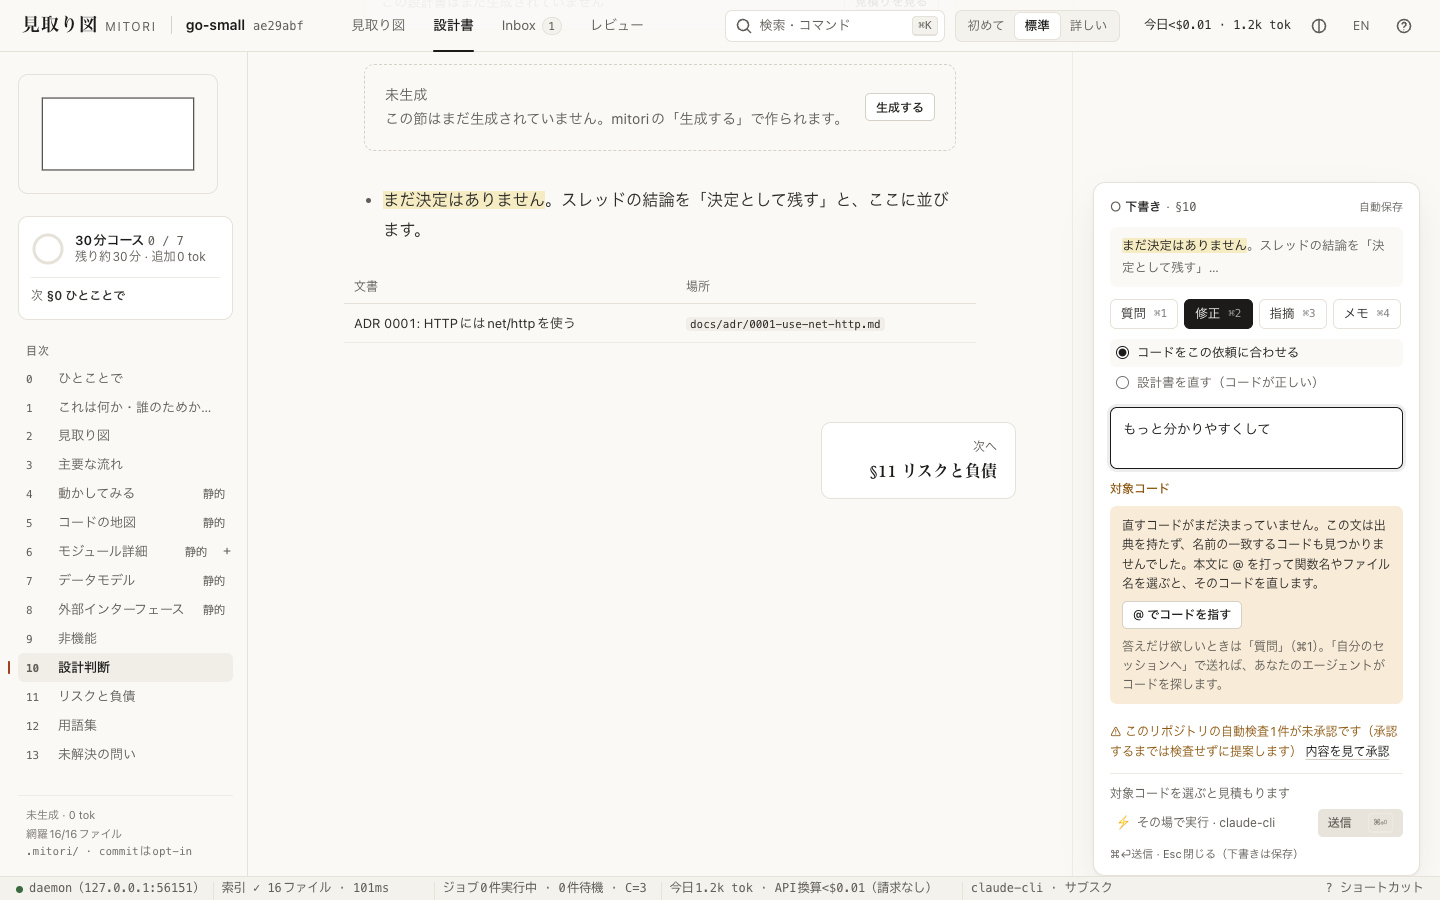
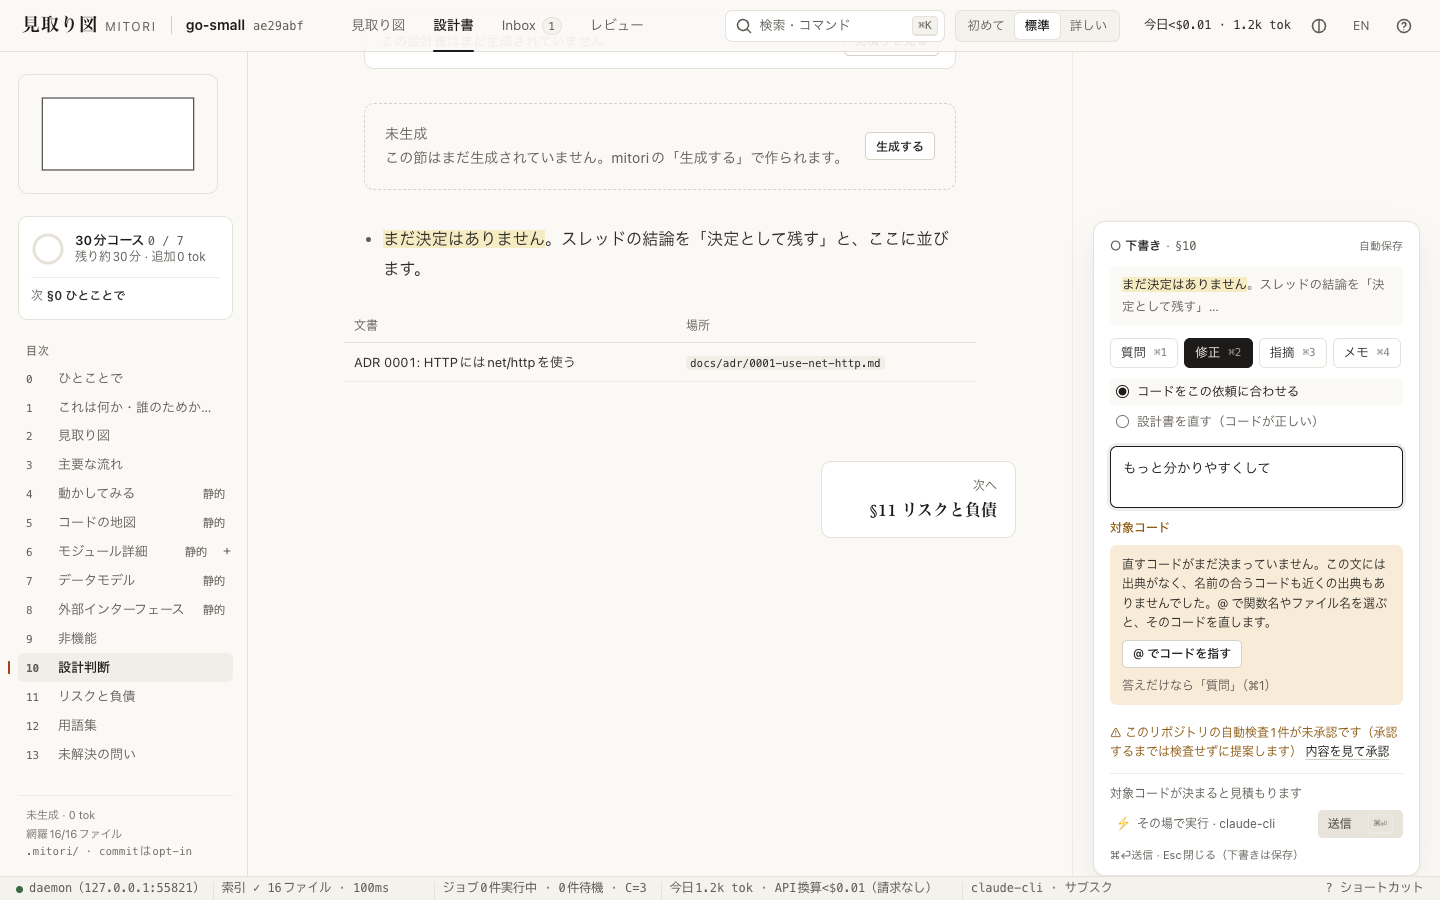
docs(progress): ux verifier pass — findings, crit probe, EN / dark shots, CR #6

diff --git a/test/int/shots/ux-en.ts b/test/int/shots/ux-en.ts
@@ -1,0 +1,104 @@
+/**
+ * UX drive, English chrome (finishing pass, track ux): the Fix-without-@ states of the Composer in the EN UI —
+ * candidates on a facts row, the hint on an uncited sentence, the ⚡-only note on ⤴. Installed Chrome via Playwright,
+ * the in-process daemon, NO engine call (nothing is sent). Exit 77 = no Chrome.
+ *
+ *   scripts/nd bun scripts/gen-assets.ts && scripts/nd bun test/int/shots/ux-en.ts [--out docs/progress/ux] [--scheme dark]
+ */
+import { mkdirSync } from "node:fs";
+import { tmpdir } from "node:os";
+import { join, resolve } from "node:path";
+import { buildFixture } from "@mitori/testkit";
+import { chromium } from "@playwright/test";
+import { FAKE_CLAUDE_CONFIG, fakeClaude } from "../fake-claude.ts";
+import { startInt } from "../harness.ts";
+
+const ROOT = resolve(import.meta.dir, "../../..");
+const argv = process.argv.slice(2);
+const opt = (k: string, d?: string) => (argv.includes(k) ? argv[argv.indexOf(k) + 1] : d);
+const OUT = resolve(ROOT, opt("--out", join(tmpdir(), "mitori-ux-en")) as string);
+mkdirSync(OUT, { recursive: true });
+const scheme = opt("--scheme", "light") === "dark" ? "dark" : "light";
+const sleep = (ms: number) => new Promise((r) => setTimeout(r, ms));
+const check = (ok: unknown, what: string): void => {
+  if (!ok) throw new Error(`check failed: ${what}`);
+};
+
+let browser: Awaited<ReturnType<typeof chromium.launch>>;
+try {
+  browser = await chromium.launch({ channel: "chrome", headless: true });
+} catch (e) {
+  console.error("[ux-en] Google Chrome is not available:", e instanceof Error ? e.message.split("\n")[0] : e);
+  process.exit(77);
+}
+const repo = await buildFixture("go-small");
+const int = await startInt({ spawner: fakeClaude({ dtMs: 1 }), config: FAKE_CLAUDE_CONFIG });
+const { ws } = await int.open(repo.root);
+const nonce = await int.json<{ url: string }>("POST", "/auth/nonce", { to: `/w/${ws}/doc/s4` });
+const ctx = await browser.newContext({ viewport: { width: 1440, height: 900 }, colorScheme: scheme, locale: "en-US" });
+const page = await ctx.newPage();
+const errors: string[] = [];
+page.on("pageerror", (e) => errors.push(e.message));
+page.on("response", (r) => {
+  if (r.status() >= 400) errors.push(`${r.status()} ${r.url()}`);
+});
+const composer = () => page.locator("section.composer").first();
+const suffix = scheme === "dark" ? "-dark" : "";
+let exit = 0;
+try {
+  await page.goto(nonce.url);
+  await page.waitForFunction(() => performance.getEntriesByName("mitori:shell:painted").length > 0);
+  // the EN chrome (the header's language toggle), the doc stays as written
+  if ((await page.locator("button.lang-btn").innerText()).trim() === "EN") await page.locator("button.lang-btn").click();
+  await page.locator(".mb code", { hasText: "TSUNDOKU_API_TOKEN" }).first().waitFor();
+  await sleep(400);
+  await page.locator(".mb code", { hasText: "TSUNDOKU_API_TOKEN" }).first().dblclick();
+  await sleep(250);
+  await page.keyboard.press("f");
+  await composer().getByText("referenced here").first().waitFor({ timeout: 5000 });
+  await sleep(300);
+  await page.screenshot({ path: join(OUT, `ux-en-01-fix-candidates${suffix}.png`) });
+  await page.keyboard.press("Escape");
+  await sleep(300);
+
+  await page.goto(new URL(`/w/${ws}/doc/s10`, page.url()).href);
+  await page.locator(".blk .mb", { hasText: "まだ決定はありません" }).first().waitFor();
+  await sleep(400);
+  await page.evaluate(() => {
+    const root = [...document.querySelectorAll(".reader-root .blk .mb")].find((x) => x.textContent?.includes("まだ決定はありません"));
+    const walker = document.createTreeWalker(root as Node, NodeFilter.SHOW_TEXT);
+    for (let n = walker.nextNode() as Text | null; n; n = walker.nextNode() as Text | null) {
+      const at = n.data.indexOf("まだ決定はありません");
+      if (at < 0) continue;
+      const r = document.createRange();
+      r.setStart(n, at);
+      r.setEnd(n, at + 10);
+      getSelection()?.removeAllRanges();
+      getSelection()?.addRange(r);
+      return;
+    }
+  });
+  await sleep(300);
+  await page.keyboard.press("f");
+  await composer().locator(".tg-none").waitFor({ timeout: 5000 });
+  await composer().locator("textarea").first().click();
+  await page.keyboard.type("make it clearer", { delay: 5 });
+  await sleep(600);
+  await page.screenshot({ path: join(OUT, `ux-en-02-fix-hint${suffix}.png`) });
+  await composer().locator("button.path").click();
+  await composer().getByText("Run here instead").waitFor({ timeout: 3000 });
+  check(!(await composer().locator("button.send").isEnabled()), "send disabled on ⤴ for an uncited Fix");
+  await sleep(200);
+  await page.screenshot({ path: join(OUT, `ux-en-03-fix-push-only${suffix}.png`) });
+  check(errors.length === 0, `no page errors / HTTP errors: ${errors.join(" | ")}`);
+  console.log(JSON.stringify({ ok: true, out: OUT }));
+} catch (e) {
+  exit = 1;
+  console.error("[ux-en] FAILED", e, errors);
+  await page.screenshot({ path: join(OUT, "99-failure-en.png") }).catch(() => undefined);
+} finally {
+  await browser.close();
+  await int.close();
+  await repo.dispose();
+}
+process.exit(exit);

diff --git a/docs/design/cr-requests/ux.md b/docs/design/cr-requests/ux.md
@@ -22,7 +22,11 @@ edit, tiny and additive.
   files a user may want fewer files written; the router always writes every cite (spec §3.2), so the chip cannot offer
   an honest ×.
 - workaround in place: cited targets have no × (tooltip: select another sentence to leave it out); picked candidates
-  and `@` mentions do (they are `context.add`). Narrowing = selecting the sentence (the claim's own cites only).
+  and `@` mentions do (they are `context.add`). Narrowing = selecting the sentence (the claim's own cites only); with
+  2+ cited files the Composer says so visibly (「減らすには、その文だけを選び直す」, verifier pass).
+- note: the finishing brief asked for REMOVABLE cited chips. Not done: it needs `router/scope.ts`, `jobs/plan.ts`
+  (WP-08c's track edits it now) and `bundle/plan.ts` (`removable: false` of anchored code) together, and spec §3.2
+  makes the anchor's cites the write scope by design — the loop owner decides.
 - urgency: before the router is touched again (WP-08c).
 
 ## #3 A human-edited placeholder kept being a placeholder (FIXED here, cross-owner — please review)
@@ -34,9 +38,11 @@ edit, tiny and additive.
   (`docs/progress/ux/ux-10-proposal-standalone.png` before the fix).
 - fix: `editBlock` turns a placeholder into `prose` and detaches it from the placeholder slot (6 lines). Regression
   test `DOC-U-007b` in `packages/doc/src/store/store.test.ts` (fails without the fix).
-- left open: a locked static facts block still gets a proposal whenever its generated text differs from the human's
-  text, even when the generated text itself did not change since the last apply (compare with the last static text
-  instead). Not seen in the flows of this track.
+- verifier pass (same track): the fix left `status: "placeholder"`, so the reader still framed the human's words in the
+  未生成 card with a 生成する button (`ux-10` before) — `editBlock` now sets `status: "ready"` too (DOC-U-007b asserts it).
+- the open part is FIXED in the verifier pass (`apply.ts`, 2 lines): a locked static block whose generated text equals a
+  pending OR rejected proposal of that block is not proposed again — static proposals are now published live (SSE), so
+  the old behaviour re-proposed a rejected text on every file save. Regression test `DOC-U-007c` (fails without it).
 
 ## #4 Cross-owner edits this track made (small, additive — please keep or move)
 - `packages/server/src/wiring/workspace.ts` (WP-INT): `observeDoc` also reports created proposals; the workspace
@@ -48,7 +54,10 @@ edit, tiny and additive.
 - `apps/web/src/shell/Header.svelte` (WP-10a), the Review header declutter: the job chip no longer repeats the ready
   count the レビュー tab already shows (◆ once), and the drawer menu button is hidden while reviewing on a ≥ 1024 px
   screen (prototype 03e; the drawer stays on `pane.nav`).
-- `packages/doc/src/store/store.ts` (#3 above).
+- `packages/doc/src/store/store.ts`, `packages/doc/src/store/apply.ts` (#3 above).
+- verifier pass: `packages/core/src/api.ts` `CodeTarget.source` += `"near"` (additive, ledger row CR ux-F1 updated);
+  `apps/web/src/reader/decorate.ts` exports `decorateTable` (a proposed table gets the block's column classes and facts
+  cite chips); `workspace.ts` also publishes the proposals of a static refresh (`applyStatic` bypassed `observeDoc`).
 
 ## #5 `Installer` has no per-file state of a target × scope
 - contract: `packages/loop/src/contract.ts` C11 `Installer`
@@ -60,3 +69,17 @@ edit, tiny and additive.
   reads it structurally. `project` still travels in the options object (cr-requests/WP-11.md #2).
 - also: compose (`packages/server/src/compose.ts`, WP-INT) now creates the installer and merges the integration
   handlers; `POST /ws/:ws/init {agentsBlock: true}` installs the AGENTS.md block (spec §11.3).
+
+## #6 A thread carries no code range of its own: ⤴ (pull) and ⧉ (copy) cannot take a picked target
+- contract: core `CreateThreadReq` / `CopyPromptReq` (no `context`), loop `threadBundle` / `bundle/copy.ts` (`extra: []`)
+- observed (verifier pass, real daemon): a `change` thread on an uncited sentence sent to your own session gets
+  `WRITE -` in its pull bundle while the DO lines say "Edit only WRITE paths" — the agent can only ask back. A picked
+  candidate or an `@` mention travels only as the push job's `context.add`; on ⤴ / ⧉ it is dropped silently. The first
+  version of the Composer hint even promised 「自分のセッションへ送れば、あなたのエージェントがコードを探します」.
+- change (either): (a) `CreateThreadReq.context?: ContextAdjust` stored with the thread and passed as `extra` by
+  `threadBundle` / Finish(push) / the copy prompt; or (b) a doc-primary anchor may carry a user-chosen `code` member that
+  `anchorRanges` uses when the claim has no cite (and the anchor engine keeps instead of re-deriving).
+- workaround in place: on ⤴ / ⧉ an uncited Fix is blocked with 「この文には出典がないため、直すコードは ⚡ その場で実行
+  のときだけAIに渡せます…」 and a one-click 「⚡ その場で実行にする」; picks and `@` chips are shown only on ⚡ (where
+  they travel). A cited sentence is unaffected (the thread's anchor carries its cites on every path).
+- urgency: before the pull path is advertised for Fix (the concept's "your own agent").

diff --git a/packages/core/CR-LEDGER.md b/packages/core/CR-LEDGER.md
@@ -291,5 +291,5 @@
 
 | id | requester | 決定 | 適用先 | 理由・備考 |
 |---|---|---|---|---|
-| CR ux-F1 | ux（仕上げ） | accepted | api `CodeTargetsReq`・`CodeTarget`・`CodeTargets`、route `POST /ws/:ws/jobs/targets`（`mutates: false`、owner loop）(applied)。実装は loop `review/targets.ts`（`resolveCodeTargets`、純関数）+ server `wiring/loop-routes.ts` | 設計書の文へのコメントから、ファイル名を知らなくても Fix が書ける（コンセプトの中心）。出典（claim の cite）は自動の対象コード、出典の無い文は表の行の参照・シンボル名・全文検索の候補をユーザーが 1 クリックで選ぶ（黙って推測して書かない）。`ReviewEngine` のメソッドにはしていない（cr-requests/ux.md #1） |
+| CR ux-F1 | ux（仕上げ） | accepted | api `CodeTargetsReq`・`CodeTarget`・`CodeTargets`、route `POST /ws/:ws/jobs/targets`（`mutates: false`、owner loop）(applied)。実装は loop `review/targets.ts`（`resolveCodeTargets`、純関数）+ server `wiring/loop-routes.ts` | 設計書の文へのコメントから、ファイル名を知らなくても Fix が書ける（コンセプトの中心）。出典（claim の cite）は自動の対象コード、出典の無い文は表の行・文の参照（バッククォートのシンボル名を含む）・シンボル名・全文検索・同じ節の近くの文の出典（`source: "near"`、検証パスで追加）の候補をユーザーが 1 クリックで選ぶ（黙って推測して書かない）。`ReviewEngine` のメソッドにはしていない（cr-requests/ux.md #1） |
 | CR ux-F2 | ux（仕上げ、= WP-11 #3） | accepted | loop `INTEGRATION_TEMPLATES`（文面のみ、id は `@1` のまま — daemon の install route は今回まで 501 で、配布済みの block は無い）: `agents-md/block@1` を markers 込み 74 tok に短縮（「Run `mitori review` only when asked; reply via `mitori reply`. Never edit `{docDir}/` except prep `out/` files.」）、review SKILL.md step 1 を短縮（plugin 1,480 B / project 1,487 B / codex 1,305 B ≤ 1,500 B）、`marketplace.json@1` に `metadata.description`（`claude plugin validate` の警告を解消）(applied)。server: `createInstaller` を compose に、`GET /integrations`・`POST /integrations/:target/install`（`wiring/integrations.ts`）、`POST /ws/:ws/init {agentsBlock}` | `install.agentsTokens`（limit 80）と `install.skillBytes`（limit 1,500 B）を満たす。`test.failing` を外した |
